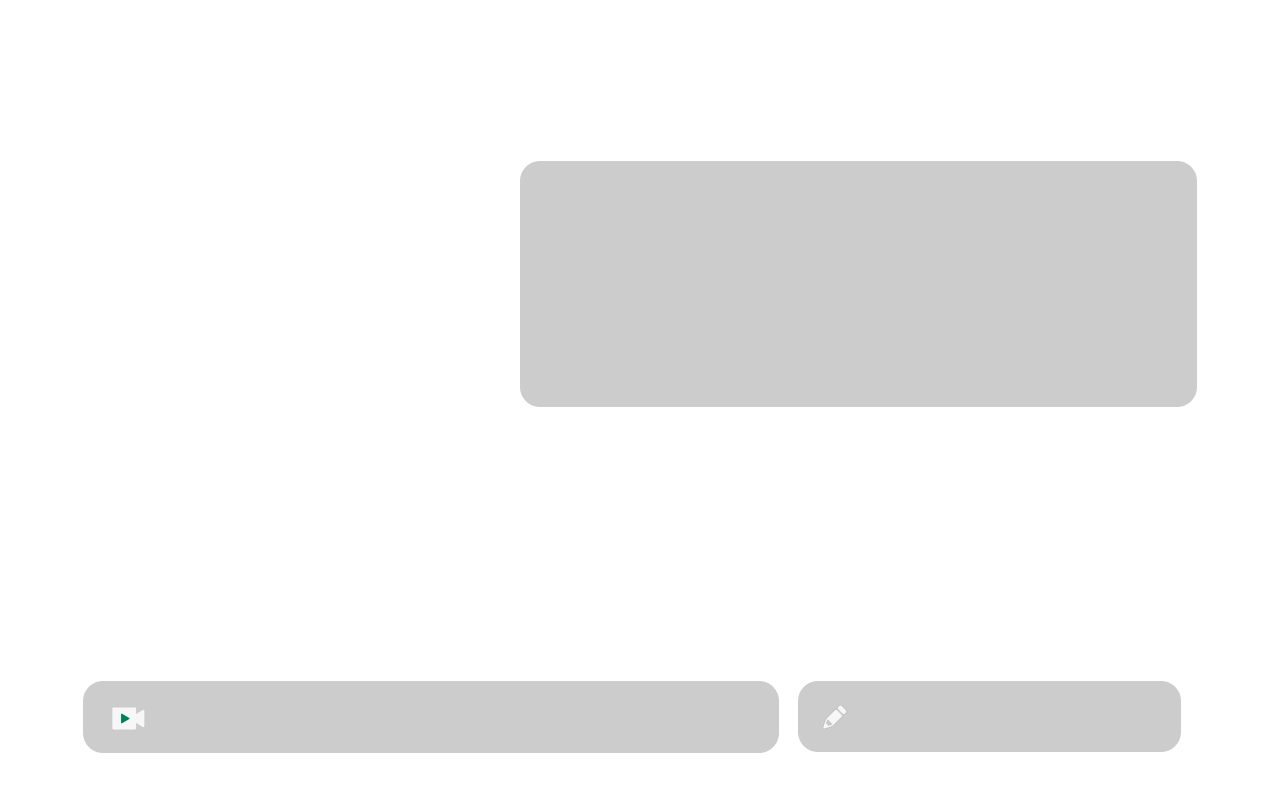
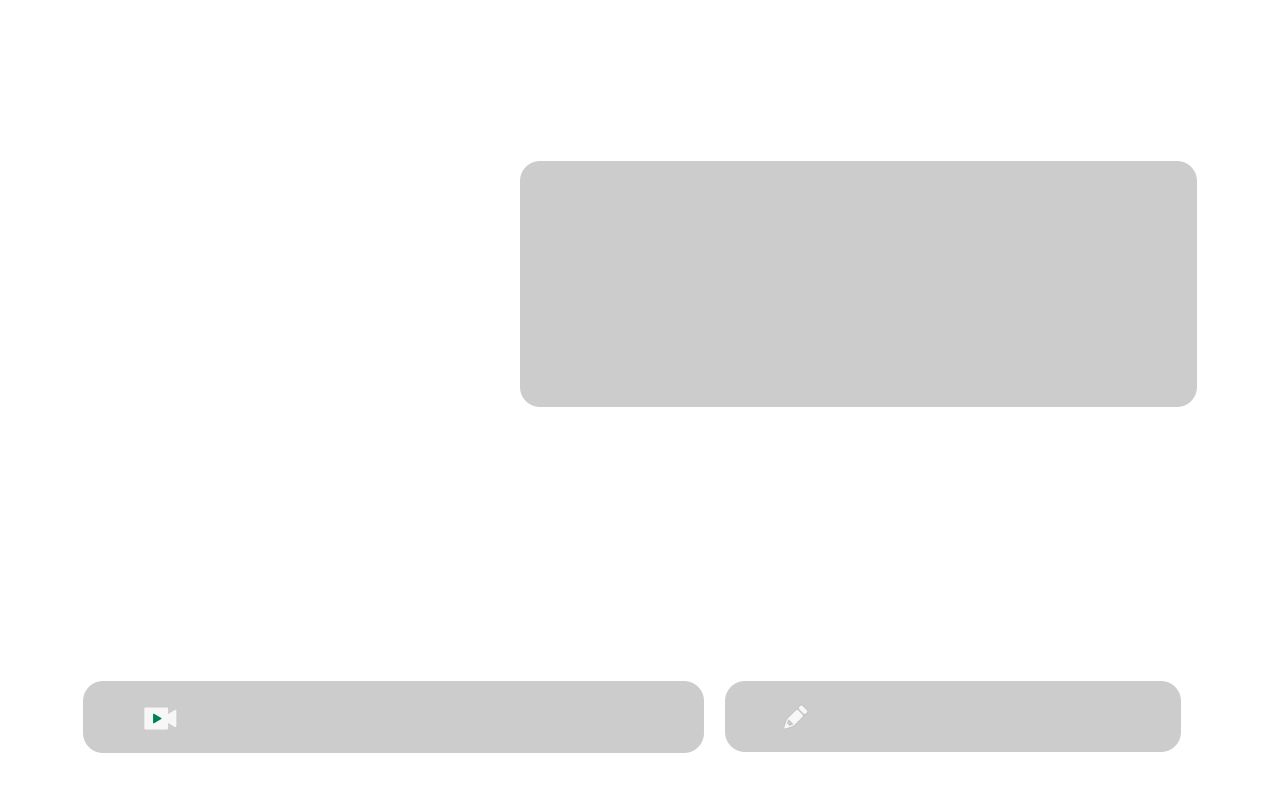
WORD부분(검수리스트60번) 수정

Changed region(s): [[0.5312, 0.8438, 0.6562, 0.9688], [0.0625, 0.875, 0.1562, 0.9375]]

diff --git a/src/D_word_english/teacher/t_voca_detail/index.scss b/src/D_word_english/teacher/t_voca_detail/index.scss
@@ -103,7 +103,7 @@
                     flex-grow: 1;
                     margin-right: 25px;
                     margin-left: 33px;
-                    margin-top: 30px;
+                    margin-top: 17px;
                     height: auto;
                     font-size: 84px;
                     color: rgb(255, 255, 255);
@@ -111,6 +111,38 @@
                     white-space: normal;
                     letter-spacing: -2.3px;
                     word-break: break-all;
+                    .re_wrap {
+                        display: flex;
+                        align-items: center;
+                        &>.re_meaning1 {
+                            position: relative;
+                            display: inline-block;
+                            width: 10px;
+                            flex-grow: 1;
+                            margin-left: 45px;
+                            margin-right: 25px;
+                            height: auto;
+                            font-size: 20px;
+                            color: rgb(255, 255, 255);
+                            line-height: 1.2;
+                            white-space: normal;
+                            letter-spacing: -0.8px;
+                        }
+                        &>.re_meaning2 {
+                            position: relative;
+                            display: inline-block;
+                            width: 10px;
+                            flex-grow: 1;
+                            margin-left: 35px;
+                            margin-right: 25px;
+                            height: auto;
+                            font-size: 34px;
+                            color: rgb(255, 255, 255);
+                            line-height: 1.2;
+                            white-space: normal;
+                            letter-spacing: -0.8px;
+                        }
+                    }
                     &.small {
                         font-size: 60px;
                     }
@@ -186,12 +218,11 @@
                     display: inline-block;
                     width: 10px;
                     flex-grow: 1;
-                    margin-left: 35px;
-                    margin-right: 35px;
+                    margin: 0px 35px 20px 24px;
                     height: auto;
-                    font-size: 45px;
+                    font-size: 34px;
                     color: rgb(0, 0, 0);
-                    line-height: 1.2;
+                    line-height: 1.8;
                     white-space: normal;
                     letter-spacing: -0.8px;
                     .block {
@@ -206,7 +237,8 @@
                     margin-left: 35px;
                     margin-right: 35px;
                     height: auto;
-                    font-size: 25px;
+                    font-size: 30px;
+                    font-weight: bold;
                     color: rgb(0, 0, 0);
                     line-height: 1.2;
                     white-space: normal;
@@ -217,6 +249,7 @@
                 }
                 &>.btn_audio {
                     position: relative;
+                    margin-bottom: 50px;
                     margin-left: 46px;
                     flex-grow: 0;
                 }
@@ -254,7 +287,7 @@
     &>.drill_btns {
         position: absolute;
         top: 694px;
-        left: 868px;
+        left: 825px;
         float: left;
         &>.btn_spelling {
             @include btn_down_dis( resolve('teacher/images/btn_spelling.png'), resolve('teacher/images/btn_spelling_on.png'), resolve('teacher/images/btn_spelling.png'), width('teacher/images/btn_spelling.png'), height('teacher/images/btn_spelling.png'));

diff --git a/src/D_word_english/teacher/t_voca_detail/index.tsx b/src/D_word_english/teacher/t_voca_detail/index.tsx
@@ -19,12 +19,17 @@ function DetailItem(props: {word: IWordData}) {
 			<div className="entry_box">
 				<div className="entry">
 					<AudioText audio_className="btn_audio" audio_url={App.data_url + word.audio} text_className="re_entry">
-						<ResponsiveText className="re_entry" maxSize={84} minSize={54} lineHeight={140} length={word.entry.length}>
+						<ResponsiveText className="re_entry" maxSize={84} minSize={84} lineHeight={140} length={word.entry.length}>
 							{word.entry}
 						</ResponsiveText>
-						<ResponsiveText className="re_meaning" maxSize={34} minSize={24} lineHeight={120} length={word.meaning.length}>
-							{word.pumsa_kor}. {word.meaning}
-						</ResponsiveText>
+						<div className="re_wrap">
+							<ResponsiveText className="re_meaning1" maxSize={17} minSize={24} lineHeight={120} length={word.meaning.length}>
+								{word.pumsa_kor}.   
+							</ResponsiveText>
+							<ResponsiveText className="re_meaning2" maxSize={34} minSize={24} lineHeight={120} length={word.meaning.length}>
+								{word.meaning}
+							</ResponsiveText>
+						</div>
 					</AudioText>
 				</div>					
 				<div className="meaning_eng">
@@ -37,7 +42,7 @@ function DetailItem(props: {word: IWordData}) {
 				<div className="sentence">
 					<AudioText audio_className="btn_audio" audio_url={App.data_url + word.sentence_audio} text_className="re_sentence">
 						{butil.parseBlock(word.sentence, 'block')}
-						<ResponsiveText className="re_sentence_meaning" maxSize={35} minSize={25} lineHeight={120} length={word.sentence_meaning.length}>
+						<ResponsiveText className="re_sentence_meaning" maxSize={30} minSize={25} lineHeight={120} length={word.sentence_meaning.length}>
 						{butil.parseBlock(word.sentence_meaning, 'block')}
 					</ResponsiveText>
 					</AudioText>
